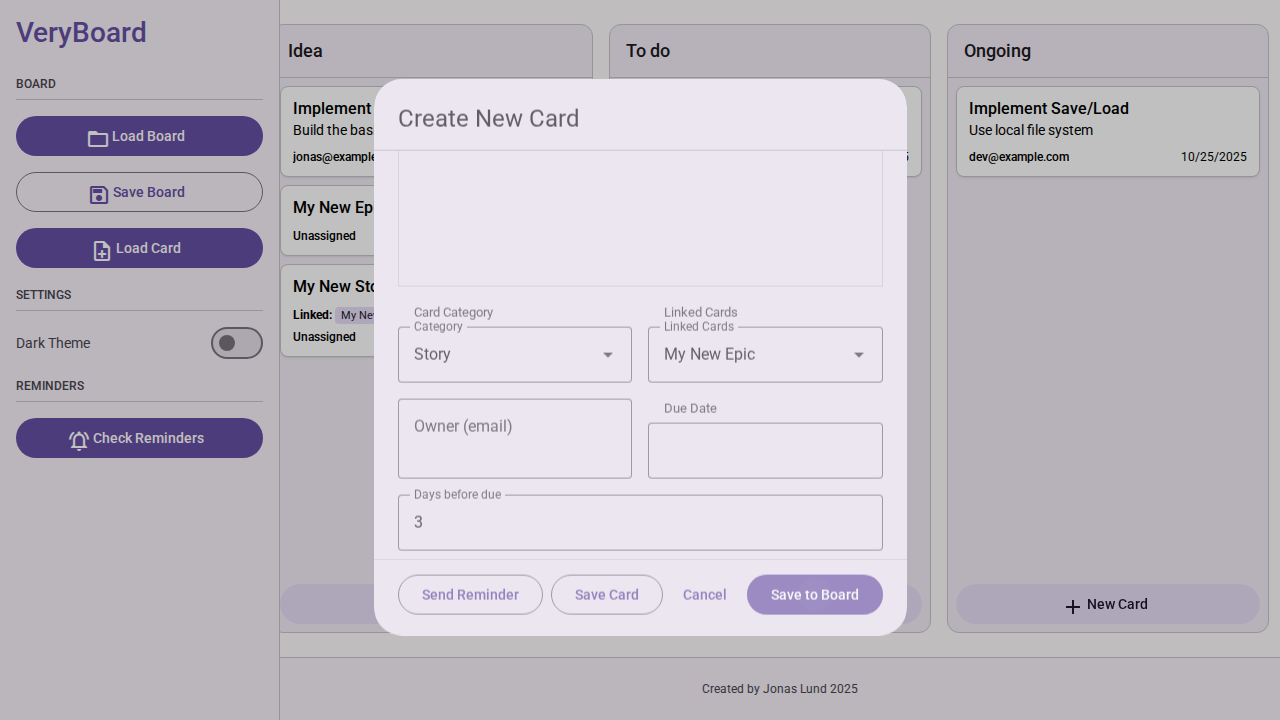
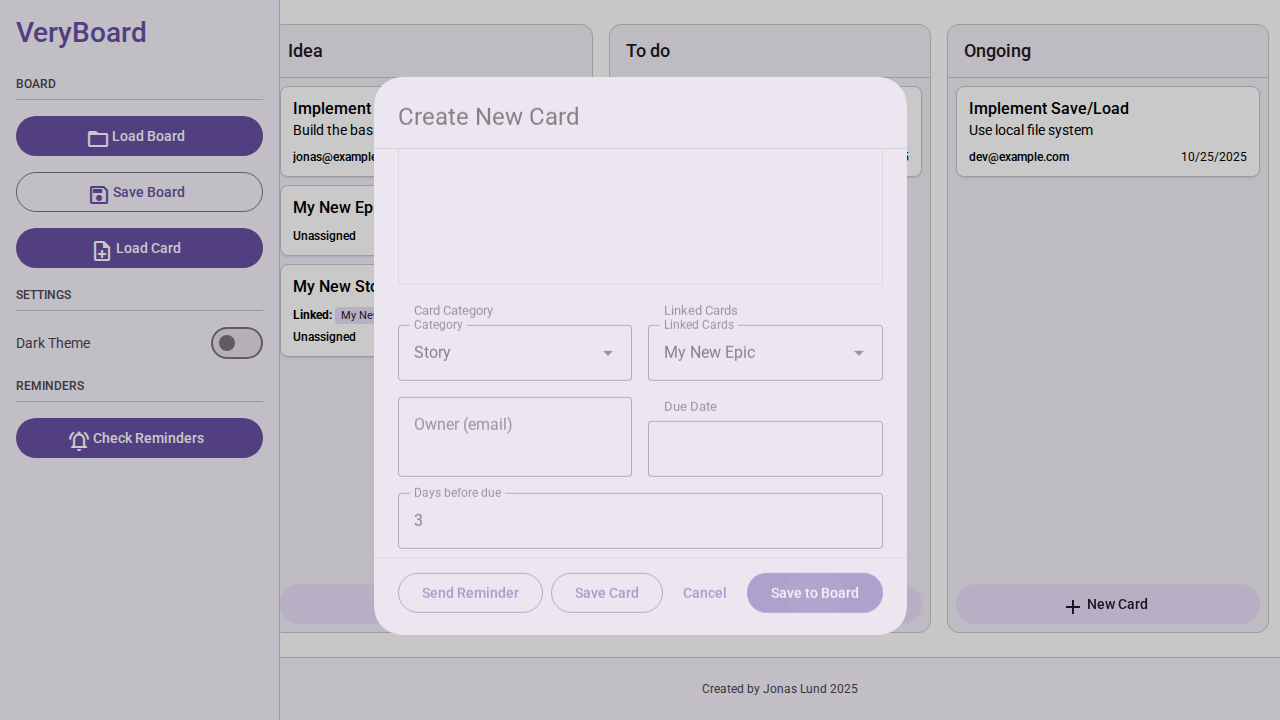
fix(datepicker): Resolve duplicate date field issue
This commit resolves an issue where the flatpickr date picker was rendering a second, unstyled input field in the card editor modal.

The fix involves changing the input that flatpickr is bound to from `type="hidden"` to `type="text"` and then hiding it off-screen with CSS. This prevents the library from creating its own visible input while still allowing it to function correctly with the styled display field.

Additionally, the Playwright test suite has been made more robust by wrapping the `kill-port` command in a `try...catch` block to prevent failures when no server process is running.

diff --git a/tests/test.spec.js b/tests/test.spec.js
@@ -6,9 +6,12 @@ test.describe('VeryBoard App', () => {
   test.beforeAll(async () => {
     // This is a workaround to make this test work in the cloud environment
     // We need to kill the previous server if it exists
-    const http = require('http');
-    const kill = require('kill-port');
-    await kill(8000, 'tcp');
+    try {
+      const kill = require('kill-port');
+      await kill(8000, 'tcp');
+    } catch (e) {
+      // Ignore errors if port is not in use
+    }
   });
 
   test.beforeEach(async ({ page }) => {

diff --git a/index.html b/index.html
@@ -646,7 +646,7 @@
                 <div class="select-container">
                     <label for="card-due-date-display">Due Date</label>
                     <md-outlined-text-field type="text" id="card-due-date-display" readonly style="cursor: pointer;"></md-outlined-text-field>
-                    <input type="hidden" id="card-due-date">
+                    <input type="text" id="card-due-date" style="position: absolute; left: -9999px;">
                 </div>
             </div>
             <div class="form-row">
